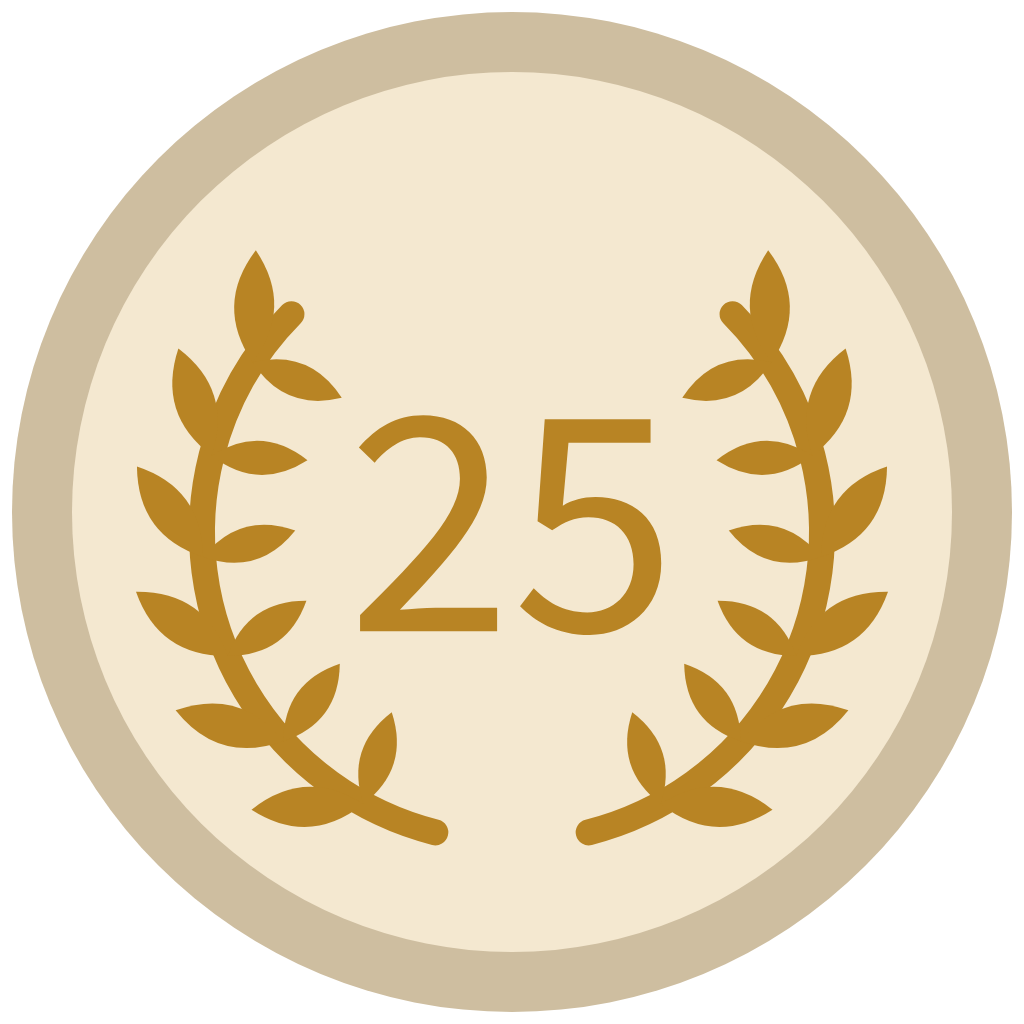
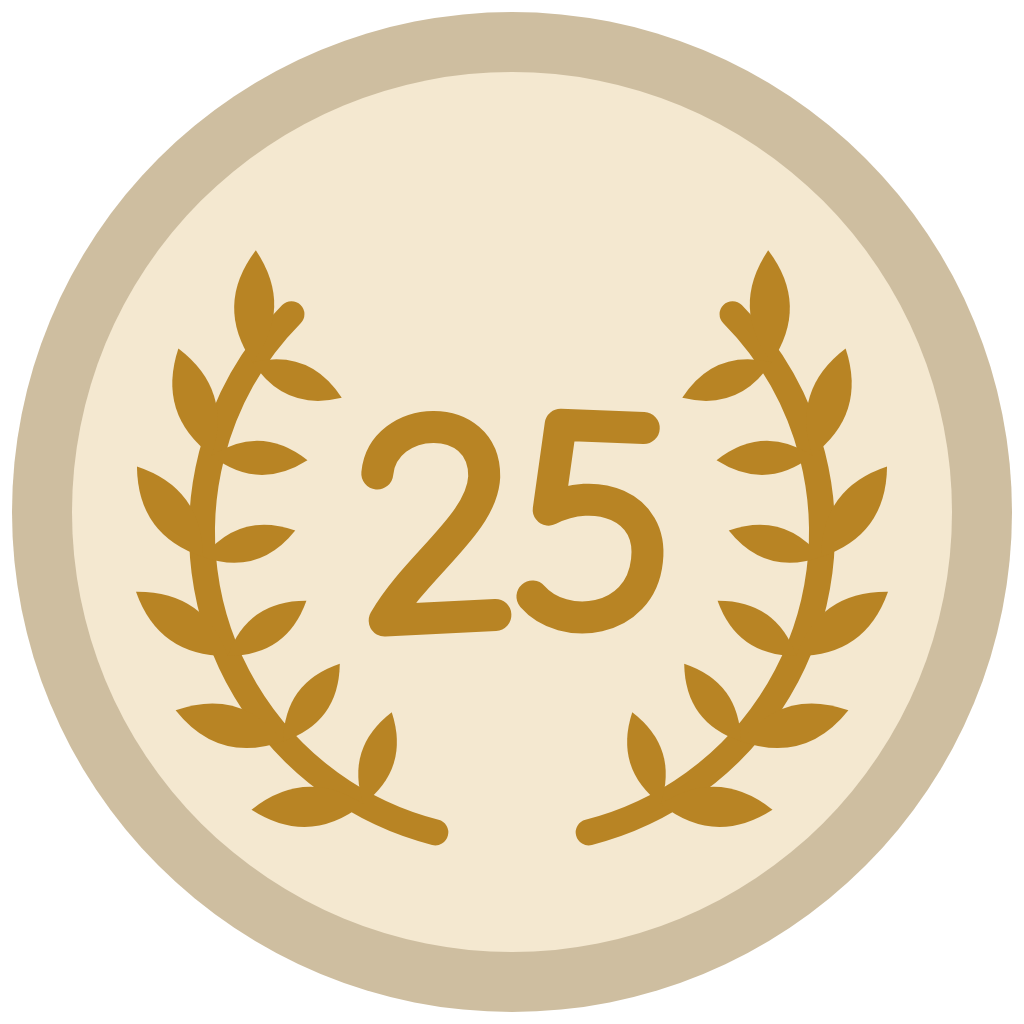
Game Center badges: hand-drawn numbers
The wins, streak and day badges draw their numbers as thick rounded
strokes, each digit a touch off true, in the line of the role tokens'
emblems.

Changed region(s): [[0.3438, 0.375, 0.6562, 0.625], [0.625, 0.5, 0.6562, 0.5312]]

diff --git a/tools/badgeart.html b/tools/badgeart.html
@@ -5,12 +5,26 @@ function disc(ctx) {      // the role token's own disc: tan rim, cream face
   ctx.beginPath(); ctx.arc(C, C, R, 0, TAU); ctx.fillStyle = css([206, 190, 160]); ctx.fill();
   ctx.beginPath(); ctx.arc(C, C, R * .88, 0, TAU); ctx.fillStyle = css([244, 232, 208]); ctx.fill();
 }
+// hand-drawn digits: thick rounded strokes, like the role tokens' emblems; each glyph in a box 0.62 wide, 1 tall
+const GLYPH = {
+  '0': c => { c.ellipse(.31, .5, .25, .44, 0, 0, TAU); },
+  '1': c => { c.moveTo(.1, .24); c.quadraticCurveTo(.24, .16, .36, .04); c.lineTo(.36, .96); },
+  '2': c => { c.moveTo(.06, .26); c.bezierCurveTo(.1, -.02, .58, -.02, .56, .3); c.bezierCurveTo(.54, .52, .22, .7, .06, .95); c.lineTo(.58, .95); },
+  '3': c => { c.moveTo(.08, .14); c.bezierCurveTo(.24, -.03, .58, .03, .52, .27); c.bezierCurveTo(.48, .43, .32, .47, .22, .47);
+              c.moveTo(.22, .47); c.bezierCurveTo(.66, .45, .64, .99, .3, .97); c.bezierCurveTo(.17, .97, .08, .91, .05, .84); },
+  '5': c => { c.moveTo(.54, .05); c.lineTo(.15, .05); c.lineTo(.11, .45); c.bezierCurveTo(.32, .33, .6, .41, .58, .67); c.bezierCurveTo(.56, .97, .2, 1.02, .05, .86); },
+  '7': c => { c.moveTo(.05, .05); c.lineTo(.58, .05); c.bezierCurveTo(.42, .3, .3, .6, .26, .95); },
+};
 function num(ctx, n, y, size, col, maxw = R * 1.05) {
-  ctx.font = `400 ${size}px "Noto Sans CJK SC", sans-serif`; ctx.textAlign = 'center'; ctx.textBaseline = 'alphabetic';
-  const m = ctx.measureText(n), h = m.actualBoundingBoxAscent - m.actualBoundingBoxDescent;
-  let s = size; if (m.width > maxw) { s = size * maxw / m.width; ctx.font = `400 ${s}px "Noto Sans CJK SC", sans-serif`; }
-  const m2 = ctx.measureText(n), h2 = m2.actualBoundingBoxAscent;
-  ctx.fillStyle = css(col); ctx.fillText(n, C, y + h2 / 2);
+  const adv = .62, gap = .12, w = n.length * adv + (n.length - 1) * gap;
+  const h = Math.min(size * .74, maxw / w), lw = Math.max(h * .15, 24), x0 = C - w * h / 2, y0 = y - h / 2;
+  ctx.save(); ctx.strokeStyle = css(col); ctx.lineWidth = lw; ctx.lineCap = 'round'; ctx.lineJoin = 'round';
+  [...n].forEach((d, i) => {
+    const tilt = [-.05, .04, -.03, .05][i % 4];      // each digit a touch off true, as if by hand
+    ctx.save(); ctx.translate(x0 + i * (adv + gap) * h + adv * h / 2, y0 + h / 2); ctx.rotate(tilt); ctx.translate(-adv * h / 2, -h / 2); ctx.scale(h, h);
+    ctx.beginPath(); GLYPH[d](ctx); ctx.restore(); ctx.stroke();
+  });
+  ctx.restore();
 }
 function leaf(ctx, x, y, ang, len, wid, col) {
   ctx.save(); ctx.translate(x, y); ctx.rotate(ang); ctx.beginPath(); ctx.moveTo(0, 0);
@@ -28,7 +42,7 @@ function wins(ctx, n) {
       leaf(ctx, x, y, a + Math.PI - sgn * .2, 96, 34, col);
     }
   }
-  num(ctx, n, C + 10, 330, col, R * .66);
+  num(ctx, n, C + 10, 330, col, R * .58);
 }
 function streak(ctx, n) {      // a flame in the middle of the token, the number inside it
   const col = [206, 40, 62], fh = 640, fw = 360, cx = C, by = C + fh * .42, ty = C - fh * .58;
@@ -48,7 +62,7 @@ function streak(ctx, n) {      // a flame in the middle of the token, the number
   ctx.bezierCurveTo(cx - iw * .32, iby, cx - iw * .62, iby - ih * .1, cx - iw * .62, ity + ih * .7);
   ctx.bezierCurveTo(cx - iw * .62, ity + ih * .4, cx - iw * .1, ity + ih * .25, cx, ity);
   ctx.fillStyle = css([244, 232, 208]); ctx.fill();
-  num(ctx, n, iby - ih * .34, 210, col, iw * .58);
+  num(ctx, n, iby - ih * .36, 260, col, iw * .62);
 }
 function day(ctx, n) {
   const col = [240, 168, 12], rr = R * .5;      // the sun's bright yellow

diff --git a/tools/mkbadges.py b/tools/mkbadges.py
@@ -2,7 +2,7 @@
 """Game Center achievement images for Tiny Clocktower, 1024x1024 PNGs into assets/achievements/<id>.png, all in the role tokens' style.
   the three role achievements show that role's token, drawn by the game's own roleToken (index.html), on a transparent ground:
     exec_survive (Undying) the anchor token   self_reverse (Turn the Tables) the cross token   trick_pukka (Double Dose) the arrow token
-  every other achievement is a token of the same disc with a number (tools/badgeart.html), in the game's font:
+  every other achievement is a token of the same disc with a hand-drawn number (tools/badgeart.html):
     wins and first win: a gold laurel wreath   streaks: a red flame, hollow, the number inside   days: the sun's yellow
 usage: tools/mkbadges.py      (needs the Playwright chrome-headless-shell)"""
 import os, re, json, base64, shutil, subprocess, tempfile
